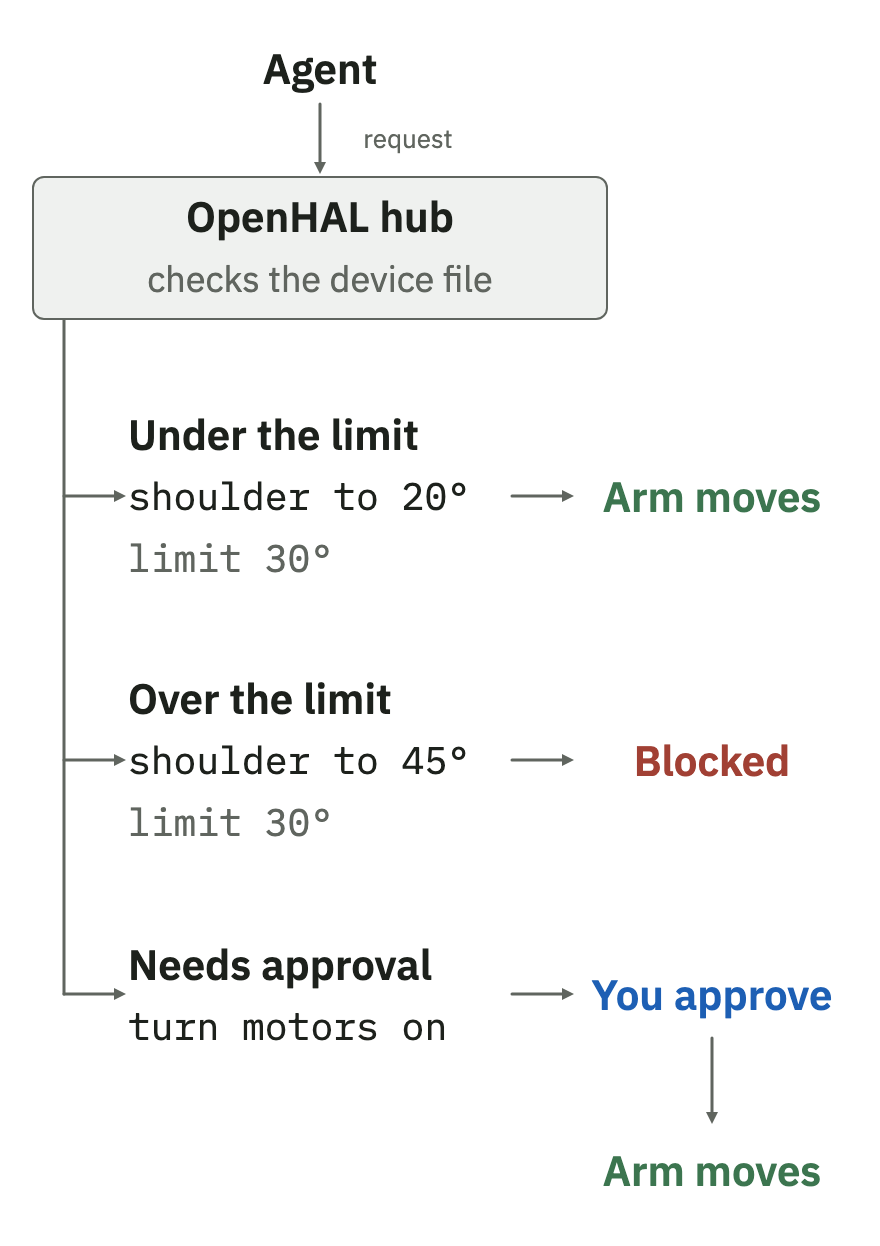
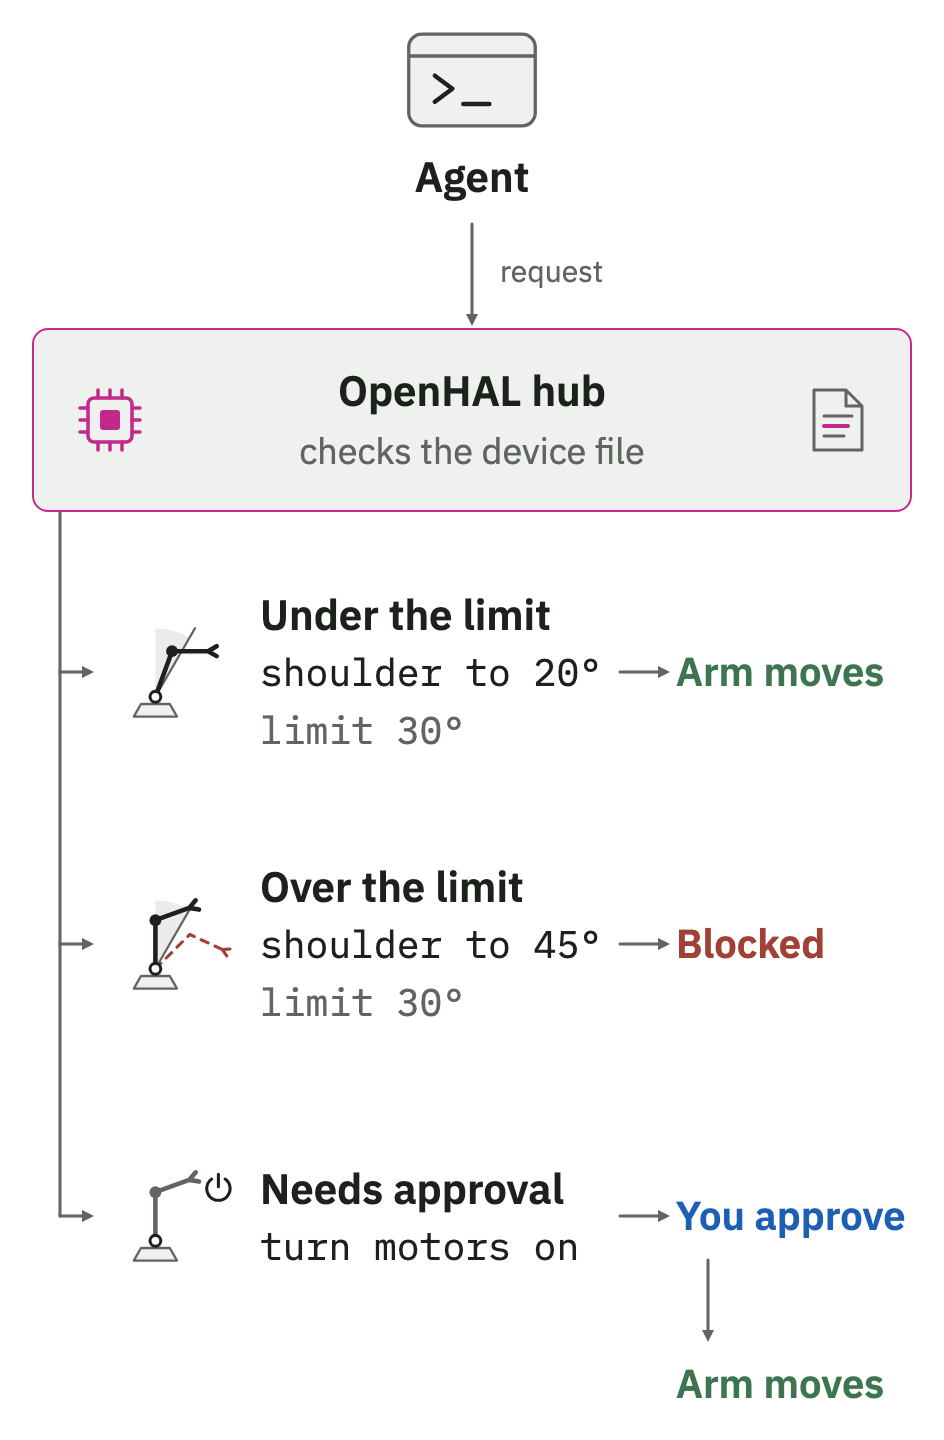
website: a larger, centered How it works chart with line drawings and no new words
The chart, redrawn on the Claude Design canvas, grows to 952 by 716 CSS px wide
and sits centered in the column. A terminal window marks the agent, the hub box
gets a pink border with a chip and a device file, and each path has a robotic
arm. The arm sits inside the shaded 30 degree limit, reaches past it as a dashed
red outline, or waits with its motors off. The labels are the same words.

diff --git a/website/src/lib/story/how.ts b/website/src/lib/story/how.ts
@@ -8,7 +8,7 @@
 export const CHART_FILES = ["how-it-works-wide-light.png", "how-it-works-wide-dark.png", "how-it-works-narrow-light.png", "how-it-works-narrow-dark.png"] as const;
 
 /** Each shape's size in CSS pixels. The files are 2x exports of these sizes. */
-export const CHART_SIZES = { wide: { width: 884, height: 544 }, narrow: { width: 440, height: 623 } } as const;
+export const CHART_SIZES = { wide: { width: 952, height: 716 }, narrow: { width: 472, height: 720 } } as const;
 
 /** One path of the chart, its branch label, the values under the branch and the outcomes in order. */
 export interface HowPath {

diff --git a/docs/DESIGN.md b/docs/DESIGN.md
@@ -57,7 +57,7 @@ The install box sits right under the wordmark and its labels and above the two a
 
 On 2026-11-02 the owner asked for one simple flow chart in place of the scroll story, word for word, "for the how it works section, use a node graph or some tree or something or some very simple flow chart diagram literally this: "The agent sends a request to set the nozzle to 300 °C. Your limit is 260 °C, so the hub blocks the request." is trash ... "The agent sends a request to cancel the print. A cancel can't be undone, so the hub holds the request for your approval" why is every sentence like a slogan keep it simple", and later the same day "also just use a rebotic arm as an example and dont code it directly within the website use claude design to make the flow chart and it can just be static thats fine".
 
-The chart is an illustration of OpenHAL's three outcomes on a robotic arm, not a copy of a device file. The agent sends a request and the OpenHAL hub checks the device file. A shoulder goal of 20° under a limit of 30° moves the arm, a goal of 45° is blocked, and a request to turn the motors on moves the arm once you approve. The outcome words are in the status colors, Arm moves in green, Blocked in red and You approve in blue. The chart was made in Claude Design on the canvas named "OpenHAL How it works" and ships as four static images in docs/assets, wide and narrow in light and dark, 2x PNG exports of 884 by 544 and 440 by 623 CSS pixels. The narrow chart sets its text larger, so the values stay about 14 px tall on a 360 px phone. A change to the chart means editing the canvas and exporting the four images again. The page shows the wide chart from 50rem and the narrow one below, follows the site's theme the way the header's wordmark does, and lazy loads the images. A visually hidden caption lists the three paths with the chart's labels word for word, so screen readers get the same content, and nothing in the section moves. A link under the section, "See a full example with a 3D printer", leads to the full example.
+The chart is an illustration of OpenHAL's three outcomes on a robotic arm, not a copy of a device file. The agent sends a request and the OpenHAL hub checks the device file. A shoulder goal of 20° under a limit of 30° moves the arm, a goal of 45° is blocked, and a request to turn the motors on moves the arm once you approve. The outcome words are in the status colors, Arm moves in green, Blocked in red and You approve in blue. The chart was made in Claude Design on the canvas named "OpenHAL How it works" and ships as four static images in docs/assets, wide and narrow in light and dark, 2x PNG exports of 952 by 716 and 472 by 720 CSS pixels. On 2026-11-03 the owner asked to "expand the how it works diagram a bit more and center it and a bit more like elements but not more text per se", so the chart grew, sits centered in the column and carries small line drawings with no new labels. The agent is a terminal window. The hub box has a pink border with a chip on one side and a device file on the other. Each path has a robotic arm. The first two arms show the 30° limit as a shaded wedge, with the arm at 20° inside the wedge or a dashed red outline of the 45° request past the limit line. The third arm is drawn gray with a power symbol beside the arm, since its motors are off. The narrow chart sets its text larger, so the values stay about 13 px tall on a 360 px phone and 14 px on a 390 px phone. A change to the chart means editing the canvas and exporting the four images again. The page shows the wide chart from 50rem and the narrow one below, follows the site's theme the way the header's wordmark does, and lazy loads the images. A visually hidden caption lists the three paths with the chart's labels word for word, so screen readers get the same content, and nothing in the section moves. A link under the section, "See a full example with a 3D printer", leads to the full example.
 
 ### The full example
 
